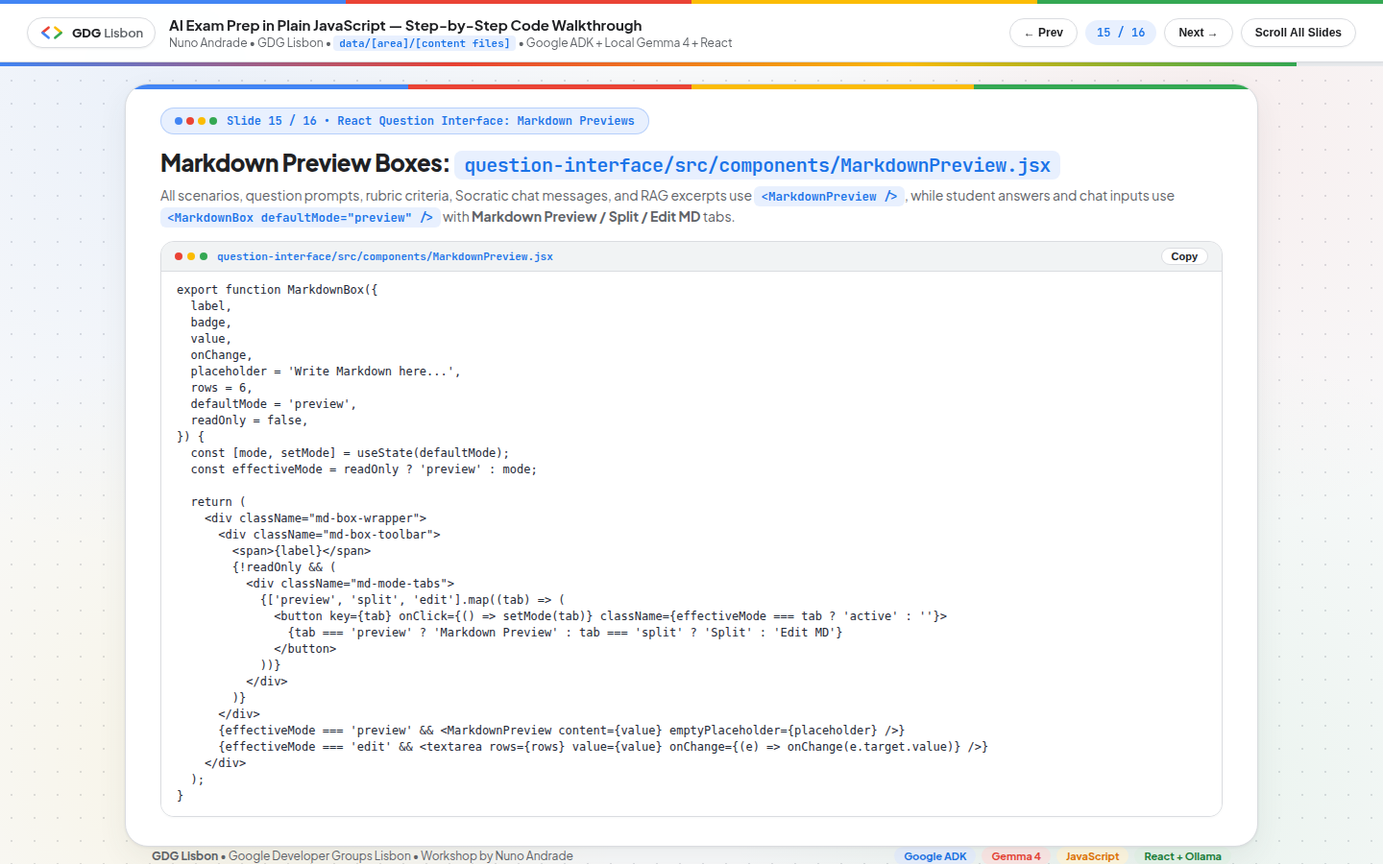
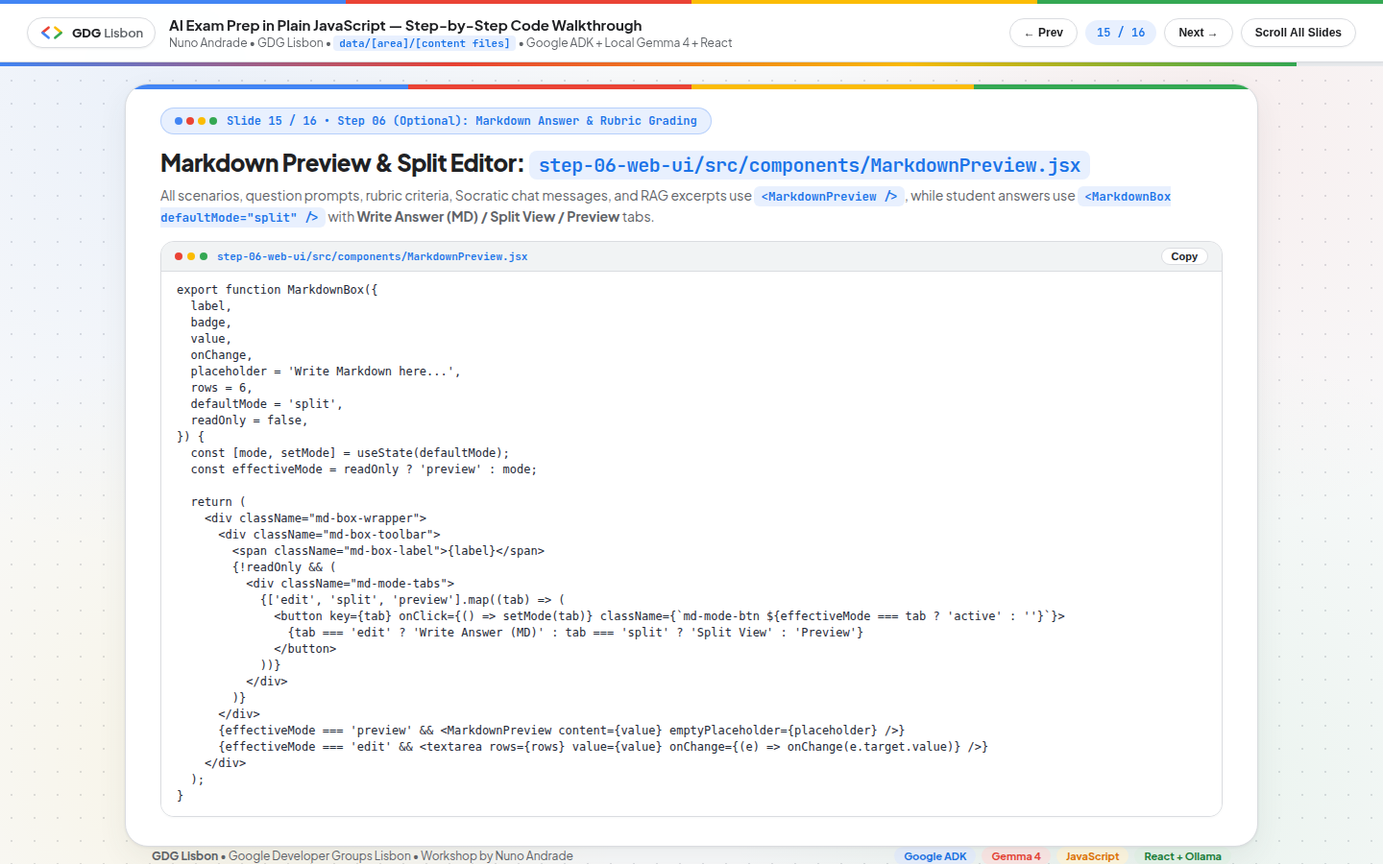
[ADD] added step 06 ui

diff --git a/_posts/2026-10-26-ai-exam-prep.md b/_posts/2026-10-26-ai-exam-prep.md
@@ -2,12 +2,12 @@
 title: "AI Exam Prep with Google ADK & Local Gemma 4: Hands-On JavaScript Code-Along (IADE & GDG Lisbon)"
 date: 2026-10-26 10:00:00 +0100
 categories: [AI Engineering, Workshops]
-tags: [google-adk, gemma4, ollama, javascript, nodejs, react, rag, socratic-agent, structured-outputs, zod, gdg-lisbon, iade]
+tags: [google-adk, gemma4, ollama, javascript, nodejs, react, openapi, swagger, rag, socratic-agent, structured-outputs, zod, gdg-lisbon, iade]
 author: Nuno João Andrade
-description: "A complete, code-first JavaScript (ES Modules) workshop and architectural guide on building a 100% offline AI Exam Prep platform with Google ADK (@google/adk), local Gemma 4 (gemma4:e2b via Ollama), area-parameterized Markdown RAG (data/[area]/[content files]), Socratic mentoring with ADK Web UI, deterministic rubric grading, and a React Markdown-First interface."
+description: "A complete, code-first JavaScript (ES Modules) workshop and architectural guide on building a 100% offline AI Exam Prep platform with Google ADK (@google/adk), local Gemma 4 (gemma4:e2b via Ollama), area-parameterized Markdown RAG (data/[area]/[content files]), Socratic mentoring with ADK Web UI, deterministic rubric grading with OpenAPI 3.0.3 (Swagger) on the API root, and an optional IADE-inspired React Student Web Interface (step-06-web-ui)."
 image:
   path: /assets/ai-exam-prep/slide-01.png
-  alt: "AI Exam Prep in Plain JavaScript — Step-by-Step Code Walkthrough with Google ADK, Local Gemma 4 & React (GDG Lisbon & IADE)"
+  alt: "AI Exam Prep in Plain JavaScript — Step-by-Step Code Walkthrough with Google ADK, Local Gemma 4, OpenAPI 3.0 & IADE-Inspired React Web UI (GDG Lisbon & IADE)"
 ---
 
 # AI Exam Prep with Google ADK & Local Gemma 4: Hands-On JavaScript Code-Along
@@ -21,25 +21,26 @@ image:
 > npm install
 > ```
 
-> **Special Thanks**: A special thank you to **IADE**, **[Lurdes Ferraz](https://www.linkedin.com/in/lurdes-ferraz-0061923a9/)**, **[Nathan Campos](https://www.linkedin.com/in/nathanpc/)**, **[GDG Lisbon](https://gdg.community.dev/gdg-lisbon/)**, and **[Eimy Blanco](https://www.linkedin.com/in/eimy-blanco/)** for the invitation, organization, and support in making this hands-on session possible!
+> **Special Thanks**: A special thank you to **[IADE](https://www.iade.europeia.pt/)**, **[Lurdes Ferraz](https://www.linkedin.com/in/lurdes-ferraz-0061923a9/)**, **[Nathan Campos](https://www.linkedin.com/in/nathanpc/)**, **[GDG Lisbon](https://gdg.community.dev/gdg-lisbon/)**, and **[Eimy Blanco](https://www.linkedin.com/in/eimy-blanco/)** for the invitation, organization, and support in making this hands-on session possible!
 
-Welcome to the complete technical walkthrough of the **AI Exam Prep in Plain JavaScript — Step-by-Step Code-Along Workshop**, presented with **IADE** and **GDG Lisbon**. In this practical engineering session, we build a complete, **100% local and offline AI Exam Preparation & Socratic Study System** from the ground up using **Plain JavaScript (ES Modules, Node.js 22+)**, the **Google Agent Development Kit (`@google/adk`)**, **Local Gemma 4 (`gemma4:e2b`)** running via **Ollama**, and a **React + Vite Web Interface** (`question-interface`).
+Welcome to the complete technical walkthrough of the **AI Exam Prep in Plain JavaScript — Step-by-Step Code-Along Workshop**, presented with **IADE** and **GDG Lisbon**. In this practical engineering session, we build a complete, **100% local and offline AI Exam Preparation & Socratic Study System** from the ground up using **Plain JavaScript (ES Modules, Node.js 22+)**, the **Google Agent Development Kit (`@google/adk`)**, **Local Gemma 4 (`gemma4:e2b`)** running via **Ollama**, an **Express API with interactive OpenAPI 3.0.3 (Swagger) documentation on its root endpoint (`step-05-grading-complete`)**, and an optional **IADE-inspired React + Vite Student Web Interface (`step-06-web-ui`)**.
 
-Instead of relying on opaque cloud wrappers, complex TypeScript compilation pipelines, or external vector database containers, this workshop demonstrates how to structure a clean, modular 5-step agentic pipeline where study materials live in **`data/[area]/[content files]`** and any subject area (`javascript`, `ai-agents`, `cloud`, or your own custom Markdown notes) can be passed dynamically as a CLI argument or URL parameter.
+Instead of relying on opaque cloud wrappers, complex TypeScript compilation pipelines, or external vector database containers, this workshop demonstrates how to structure a clean, modular agentic pipeline where study materials live in **`data/[area]/[content files]`** and any subject area (`javascript`, `ai-agents`, `cloud`, or your own custom Markdown notes) can be passed dynamically as a CLI argument, REST payload, or URL parameter.
 
 ![Slide 01 — Simple JavaScript Folder Layout & data/[area]/[content files]](/assets/ai-exam-prep/slide-01.png)
 
 > [!NOTE]
-> **Primary Architectural Goal**: Empower developers and students to build a privacy-first, zero-API-cost agentic study companion that grounds every exam question, Socratic hint, and rubric evaluation strictly in local Markdown study notes (`data/[area]/*.md`), while supporting both interactive CLI execution, the **Google ADK DevTools Web UI (`adk web`)**, and a full-stack **React Markdown Preview** web interface.
+> **Primary Architectural Goal**: Empower developers and students to build a privacy-first, zero-API-cost agentic study companion that grounds every exam question, Socratic hint, and rubric evaluation strictly in local Markdown study notes (`data/[area]/*.md`), while supporting interactive CLI execution, the **Google ADK DevTools Web UI (`adk web`)**, an **OpenAPI 3.0.3 (Swagger) Explorer** on `http://localhost:3000/`, and an **IADE-inspired React Student Portal** (`step-06-web-ui`) on `http://localhost:5173/`.
 
 ---
 
 ## About the Speaker & the GDG Lisbon + IADE Session
 
-This workshop was created for the **IADE** academic and developer community in partnership with **Google Developer Groups (GDG) Lisbon** by **Nuno João Andrade** ([nja.dev](https://nja.dev)), **Google Developer Expert (GDE)** in Google Cloud & Modern Infrastructure and Senior Backend & Cloud Architect.
+This workshop was created for the **[IADE — Faculdade de Design, Tecnologia e Comunicação](https://www.iade.europeia.pt/)** academic and developer community in partnership with **Google Developer Groups (GDG) Lisbon** by **Nuno João Andrade** ([nja.dev](https://nja.dev)), **Google Developer Expert (GDE)** in Google Cloud & Modern Infrastructure and Senior Backend & Cloud Architect.
 
-- **Plain JavaScript by Design**: Every step (`step-01-setup` through `step-05-grading-complete`) is written in native **Node.js ES Modules (`.js`)** using built-in `fetch()`—zero TypeScript build steps, zero external HTTP client bloat, and instant execution inside each folder (`cd step-0X-... && npm start <area>`).
-- **Dynamic Content Parameterization (`data/[area]/[content files]`)**: Drop any `.md` or `.txt` files into `data/<area>/` and pass `<area>` as a parameter in the terminal (`node index.js javascript`, `node index.js ai-agents`, `node index.js cloud`) or in the React Web UI (`?area=javascript` or via the **+ Pass Custom Content Parameter** drawer).
+- **Plain JavaScript by Design**: Every core step (`step-01-setup` through `step-05-grading-complete`) is written in native **Node.js ES Modules (`.js`)** using built-in `fetch()`—zero TypeScript build steps, zero external HTTP client bloat, and instant execution inside each folder (`cd step-0X-... && npm start <area>`).
+- **Dynamic Content Parameterization (`data/[area]/[content files]`)**: Drop any `.md` or `.txt` files into `data/<area>/` and pass `<area>` as a parameter in the terminal (`node index.js javascript`, `node index.js ai-agents`, `node index.js cloud`) or in the Step 06 React Web UI (`?area=javascript` or via the **+ Pass Custom Content Parameter** drawer).
+- **OpenAPI-First Backend + IADE-Inspired Frontend**: Step 05 serves a full **OpenAPI 3.0.3 (Swagger)** specification and interactive Swagger UI directly at the API root (`GET http://localhost:3000/`), which **Step 06 (Optional)** consumes from a React interface styled after the official **IADE** digital identity (`#000000` black header, `#3cdbc0` turquoise, `#f000ff` magenta, `#0047bb` royal blue, and `Lato` typography).
 
 ---
 
@@ -53,13 +54,15 @@ When students or engineering teams use generic cloud chatbots to study for techn
 | **Exam Structure** | Unstructured prose questions with arbitrary point values | Deterministic **20-point JSON Schema** (`EXAM_JSON_SCHEMA`) validated at runtime with **Zod** |
 | **Learning Pedagogy** | Spoils the full solution immediately when asked for help | **Socratic Study Mentor Agent** (`step-04-socratic-agent`) gives a 2–4 sentence hint + **one guiding question** |
 | **Answer Grading** | Vague "Good job!" feedback without criterion-level breakdown | **Deterministic Rubric Grader** (`step-05-grading-complete`) scoring each criterion against `data/[area]/` notes |
+| **API Discoverability** | Undocumented custom endpoints | **OpenAPI 3.0.3 (Swagger)** served on `GET /`, `/openapi.json`, and `/swagger.json` (`http://localhost:3000/`) |
+| **Student Experience** | Raw terminal or generic chat window | **Step 06 (Optional): IADE-Inspired React Web UI** (`step-06-web-ui`) with area cards, live question generation, Socratic chat, and rubric scorecards |
 | **Cost & Privacy** | Requires paid API keys and sends study notes to external servers | **100% Offline & Free**: runs locally on `gemma4:e2b` via Ollama (`127.0.0.1:11434`) |
 
 ---
 
-## System Architecture Blueprint & Progressive 5-Step Curriculum
+## System Architecture Blueprint & Progressive Curriculum (`step-01` to `step-06`)
 
-The repository is organized into shared foundation helpers (`src/shared/`), five progressive self-contained step folders (`step-01-setup` to `step-05-grading-complete`), and a full-stack React web interface (`question-interface/`):
+The repository is organized into shared foundation helpers (`src/shared/`), five progressive self-contained backend/agent step folders (`step-01-setup` to `step-05-grading-complete`), and an optional **Step 06** IADE-inspired React web interface (`step-06-web-ui/`):
 
 ```text
 examprep/
@@ -80,11 +83,11 @@ examprep/
 ├── step-02-rag/                  # Step 2: ADK FunctionTool over data/[area]/
 ├── step-03-exam-gen/             # Step 3: Structured 20-pt JSON exam + rubric generator
 ├── step-04-socratic-agent/       # Step 4: Multi-turn Socratic Mentor + `adk web` UI
-├── step-05-grading-complete/     # Step 5: Deterministic rubric grader + Express API (:3000)
-└── question-interface/           # React + Vite Web UI (:5173) with Markdown Preview boxes
+├── step-05-grading-complete/     # Step 5: Rubric grader + Express API + OpenAPI/Swagger on `/` (:3000)
+└── step-06-web-ui/               # Step 6 (Optional): IADE-inspired React Student Web UI (:5173 -> :3000)
 ```
 
-### The 5-Step Workshop Roadmap
+### The Workshop Roadmap (Steps 01–05 + Optional Step 06)
 
 | Step Folder | Architectural Focus | Key Primitives Demonstrated | Execution Command |
 | :--- | :--- | :--- | :--- |
@@ -92,7 +95,8 @@ examprep/
 | **`step-02-rag/`** | Area Content RAG Tool | `FunctionTool` (`search_area_content`), Zod tool parameters, heading-aware Markdown chunking | `cd step-02-rag && npm start javascript` |
 | **`step-03-exam-gen/`** | Structured 20-Point Exam & Rubric Generator | Ollama JSON Schema (`format: EXAM_JSON_SCHEMA`), `ExamQuestionSchema` Zod validation | `cd step-03-exam-gen && npm start javascript` |
 | **`step-04-socratic-agent/`** | Multi-Turn Socratic Mentor & ADK DevTools Web UI | Multi-turn `InMemoryRunner`, Socratic system rules, `export const rootAgent`, `adk web` (`:8000`) | `cd step-04-socratic-agent && npm start javascript` (or `npm run web`) |
-| **`step-05-grading-complete/`** | Deterministic Rubric Grader & Full-Stack Express API | Criterion-by-criterion JSON grading (`EVALUATION_JSON_SCHEMA`), REST API (`server.js` on `:3000`) | `cd step-05-grading-complete && npm start javascript` |
+| **`step-05-grading-complete/`** | Deterministic Rubric Grader, Express API & OpenAPI (Swagger) Root | Criterion-by-criterion JSON grading (`EVALUATION_JSON_SCHEMA`), REST API + OpenAPI 3.0.3 UI on `GET /` (`:3000`) | `cd step-05-grading-complete && npm start javascript` (or `npm run server`) |
+| **`step-06-web-ui/` *(Optional)*** | IADE-Inspired React Student Web Interface | Area selector hero (`javascript`, `ai-agents`, `cloud`), live question generation via Step 05 API, Socratic Coach, Markdown Preview boxes | `cd step-06-web-ui && npm start` (or `npm run step06`) |
 
 ---
 
@@ -123,7 +127,7 @@ curl http://127.0.0.1:11434/api/tags
 
 ![Slide 03 — Pull Local gemma4:e2b & Install Workspace Dependencies](/assets/ai-exam-prep/slide-03.png)
 
-Pull the local Gemma 4 model (`gemma4:e2b`) once for offline inference, then run `npm install` at the repository root to link all 5 step workspaces and `question-interface`:
+Pull the local Gemma 4 model (`gemma4:e2b`) once for offline inference, then run `npm install` at the repository root to link all step workspaces (`step-01-setup` through `step-06-web-ui`):
 
 ```bash
 # 1. Download local Gemma 4 model
@@ -141,7 +145,7 @@ npm install
 > [!TIP]
 > **Classroom Offline USB Model Installation (`OLLAMAMODEL`)**: In a live classroom where 30+ participants shouldn't download 4.6 GB over venue Wi-Fi simultaneously, the repository includes **[OFFLINE-MODEL-SETUP.md](https://github.com/nuno-joao-andrade-dev/ai-exam-prep/blob/main/OFFLINE-MODEL-SETUP.md)** with ready-to-run commands for copying the `models/` folder (`blobs/`, `manifests/`, `manifests-v2/`, `metadata/`) directly from the `OLLAMAMODEL` USB drive on **Windows (PowerShell)**, **macOS**, and **Linux** with zero internet usage.
 
-The root `package.json` provides clean scripts for running individual steps, launching the **Google ADK DevTools Web UI** (`step04:web`), or starting the **Express API + React Web UI + Slide Deck** simultaneously with `concurrently`:
+The root `package.json` provides clean scripts for running individual steps, launching the **Google ADK DevTools Web UI** (`step04:web`), starting the **Step 05 OpenAPI Server** (`server`), or launching **Step 06 (Optional) IADE React Web UI** (`step06`):
 
 ```json
 {
@@ -153,9 +157,10 @@ The root `package.json` provides clean scripts for running individual steps, lau
     "step04": "node step-04-socratic-agent/index.js",
     "step04:web": "adk web step-04-socratic-agent/index.js --compile false --bundle false",
     "step05": "node step-05-grading-complete/index.js",
+    "step06": "node step-06-web-ui/index.js",
     "server": "node step-05-grading-complete/server.js",
-    "ui": "npm --prefix question-interface run dev",
-    "ui:build": "npm --prefix question-interface run build",
+    "ui": "npm --prefix step-06-web-ui run dev",
+    "ui:build": "npm --prefix step-06-web-ui run build",
     "slides": "node src/shared/serve-slides.js",
     "test:all": "node src/shared/test-all.js"
   }
@@ -381,7 +386,7 @@ npm run step04:web
 
 ---
 
-### Step 05: Deterministic Rubric Grader & Express API Server (`step-05-grading-complete/`)
+### Step 05: Deterministic Rubric Grader, Express API & OpenAPI 3.0.3 (Swagger) on Root (`step-05-grading-complete/`)
 
 ![Slide 12 — Execute Step 05: cd step-05-grading-complete && node index.js <area>](/assets/ai-exam-prep/slide-12.png)
 
@@ -396,56 +401,107 @@ npm start javascript
 npm run step05 -- javascript
 ```
 
-![Slide 13 — Backend API Server: step-05-grading-complete/server.js](/assets/ai-exam-prep/slide-13.png)
+#### OpenAPI 3.0.3 (Swagger) Documentation on the Root Endpoint (`GET /`)
 
-`step-05-grading-complete/server.js` exposes the complete pipeline over HTTP (`http://localhost:3000`) for the React Web Interface. Every endpoint accepts both `area` (folder name inside `data/`) and optional `customContent` (raw Markdown passed from the UI):
-- `GET /api/status?area=<area>`: Lists all available `data/[area]` folders, loaded files, and Ollama connectivity status.
-- `POST /api/rag/search`: Runs `searchAreaContent({ area, query, topK, customContent })`.
-- `POST /api/exam/generate`: Generates a 20-point exam question and rubric for `area` + `topic`.
-- `POST /api/socratic/chat`: Multi-turn Socratic mentor chat grounded in `data/[area]/`.
-- `POST /api/grade/evaluate`: Evaluates the student's Markdown answer against the 20-point rubric.
+![Slide 13 — Backend API Server & OpenAPI (Swagger) on Root: step-05-grading-complete/server.js](/assets/ai-exam-prep/slide-13.png)
+
+In addition to the CLI grader, `step-05-grading-complete/server.js` exposes the entire exam preparation pipeline over HTTP (`http://localhost:3000`) and dynamically generates an **OpenAPI 3.0.3 (Swagger)** description directly on the root endpoint (`GET /`), dynamically enumerating every folder discovered inside `data/` (`listAreas()`):
+
+```javascript
+// step-05-grading-complete/server.js
+app.get(['/openapi.json', '/swagger.json'], (req, res) => {
+  const serverUrl = `${req.protocol}://${req.get('host')}`;
+  res.json(buildOpenApiSpec(serverUrl));
+});
+
+app.get('/', (req, res) => {
+  const serverUrl = `${req.protocol}://${req.get('host')}`;
+  const spec = buildOpenApiSpec(serverUrl);
+  const accept = req.headers.accept || '';
+  if (req.query.format === 'json' || accept.includes('application/json')) {
+    return res.json(spec);
+  }
+  return res.type('html').send(renderSwaggerUiHtml(spec));
+});
+```
+
+![Step 05 OpenAPI 3.0.3 (Swagger) Interactive Explorer on http://localhost:3000/](/assets/ai-exam-prep/step-05-openapi.png)
+
+When you start the server (`npm run server` or `cd step-05-grading-complete && npm run server`):
+- **`GET http://localhost:3000/`**: Renders the interactive **Swagger UI** in the browser (or returns the raw OpenAPI 3.0.3 JSON when requested with `Accept: application/json` or `?format=json`).
+- **`GET http://localhost:3000/openapi.json`** (and **`/swagger.json`**): Returns the raw OpenAPI 3.0.3 JSON specification with full request/response schemas for `ExamQuestion`, `RubricCriterion`, `EvaluationResult`, and `RagSearchResponse`.
+- **`GET /api/status?area=<area>`**: Lists all available `data/[area]` folders, loaded Markdown files, and local Ollama connectivity status.
+- **`POST /api/rag/search`**: Runs `searchAreaContent({ area, query, topK, customContent })`.
+- **`POST /api/exam/generate`**: Generates a 20-point exam question and rubric for `area` + `topic`.
+- **`POST /api/socratic/chat`**: Multi-turn Socratic mentor chat grounded in `data/[area]/`.
+- **`POST /api/grade/evaluate`**: Evaluates the student's Markdown answer against the 20-point rubric.
 
 ---
 
-## Full-Stack React Web Interface (`question-interface/`)
+## Step 06 (Optional): IADE-Inspired React Student Web Interface (`step-06-web-ui/`)
 
-### 1. Passing `area` and `customContent` as Parameters
+To give students an intuitive, self-service web experience on top of the Step 05 API, **Step 06 (Optional)** (`step-06-web-ui/`) provides a modern **React + Vite Student Web Interface** inspired by the official **[IADE — Faculdade de Design, Tecnologia e Comunicação](https://www.iade.europeia.pt/)** website.
 
-![Slide 14 — Passing Content as a Parameter in question-interface/src/App.jsx](/assets/ai-exam-prep/slide-14.png)
+![Step 06 (Optional) — IADE-Inspired React Student Web Interface on http://localhost:5173/](/assets/ai-exam-prep/step-06-iade-ui.png)
 
-In `question-interface/src/App.jsx`, you can switch study areas or pass custom study notes in three ways:
-1. **URL Query Parameter (`?area=javascript`, `?area=ai-agents`, `?area=cloud`)**: Automatically synced with `window.history.replaceState`.
-2. **Header Area Selector Dropdown**: Switches between any folder discovered inside `data/`.
-3. **`+ Pass Custom Content Parameter` Drawer (or `?content=...`)**: Paste any custom Markdown lecture notes directly in the browser to override `data/[area]/` on the fly for RAG search, exam generation, Socratic mentoring, and rubric grading.
+### 1. Visual Design System Inspired by IADE (`step-06-web-ui/src/index.css`)
 
-### 2. Markdown Preview Boxes (`<MarkdownPreview />` & `<MarkdownBox />`)
+The frontend adopts IADE's bold editorial design language and exact color tokens:
+- **Brand Palette**: `--brand1: #000000` (Bold Black top navigation bar & primary buttons), `--brand2: #3cdbc0` (IADE Turquoise accents, active pill borders, and highlights), `--brand3: #0047bb` (IADE Royal Blue badges), `--brand4: #f000ff` (IADE Magenta micro-accents), and `--ui02: #eeeff2` (light editorial surface).
+- **Typography & Header**: Clean `Lato` typography paired with the official inline **IADE SVG emblem** (`IadeLogoSvg` in `Header.jsx`), a quick-switch area pill bar (`javascript`, `ai-agents`, `cloud`), and a direct link to the **Step 05 OpenAPI / Swagger UI (`http://localhost:3000/`)**.
 
-![Slide 15 — Markdown Preview Boxes: question-interface/src/components/MarkdownPreview.jsx](/assets/ai-exam-prep/slide-15.png)
+### 2. Student Area Selection & Live Question Generation via Step 05 API
 
-To make technical scenarios, code snippets, rubrics, and student answers effortless to read, most boxes in the React UI render formatted Markdown previews by default:
-- Read-only displays (exam scenario, question prompt, rubric criteria, sample solution, Socratic mentor replies, and RAG source excerpts) use `<MarkdownPreview />`.
-- Interactive inputs (student answer box, Socratic chat input, and custom content parameter editor) use `<MarkdownBox defaultMode="preview" />` with instant **`Markdown Preview | Split | Edit MD`** mode tabs.
+![Slide 14 — Step 06 (Optional): IADE-Inspired React Student Web UI (step-06-web-ui/)](/assets/ai-exam-prep/slide-14.png)
+
+In `step-06-web-ui/src/App.jsx` and `AreaSelectorHero.jsx`, students can:
+1. **Select Any Study Area (`data/[area]/`)**: Click on any area card (`javascript`, `ai-agents`, `cloud`, or any custom folder added to `data/`) in the dark IADE Hero banner, use the header pills, or pass `?area=javascript` in the URL.
+2. **Generate Exam Questions via the Step 05 API (`POST /api/exam/generate`)**: Enter an optional topic focus (e.g., `"Event Loop and Closures"` or `"Horizontal Scaling and Cache Stampede"`) and click **`Generate Question via Step 05 API`** (or click **`Generate Question via API →`** directly on any area card) to generate a fresh 20-point exam question from `data/[area]/`.
+3. **Pass Custom Markdown Notes (`+ Custom Notes` Drawer)**: Paste custom lecture notes directly in the browser to override `data/[area]/` on the fly across all four Step 05 API endpoints.
+
+### 3. Answering Questions, Socratic Coaching & Deterministic Grading (`<MarkdownBox />`)
+
+![Slide 15 — Step 06 (Optional): Area Selector Hero & MarkdownBox Components](/assets/ai-exam-prep/slide-15.png)
+
+Once an area and question are active, students progress through four integrated tabs in the workspace:
+- **`1. Answer Exam Question` (`ExamQuestionView.jsx`)**: Displays the 20-point scenario, question prompt, and collapsible grading rubric using `<MarkdownPreview />`, alongside an interactive `<MarkdownBox />` (`Markdown Preview | Split | Edit MD`) where the student writes their solution and clicks **`Submit & Grade via Step 05 API`** (`POST /api/grade/evaluate`).
+- **`2. Socratic Coach (Step 04)` (`SocraticChatView.jsx`)**: Connects to `POST /api/socratic/chat` so students can ask for a hint while working on the question—receiving a 2–4 sentence conceptual nudge and one guiding question grounded in `data/[area]/` without spoiling the answer.
+- **`3. Rubric Evaluation (Step 05)` (`RubricScorecardView.jsx`)**: Renders the per-criterion point breakdown (`awardedPoints / maxPoints`), justifications, and actionable improvement suggestions returned by the Step 05 rubric grader.
+- **`4. Study Notes (data/area)` (`CurriculumSearchView.jsx`)**: Lets students search the Markdown chunks in `data/[area]/` via `POST /api/rag/search`.
+
+```bash
+# Launch Step 06 (automatically starts the Step 05 API on :3000 if not already running, plus Vite on :5173):
+cd step-06-web-ui
+npm start
+
+# Or from the repository root:
+npm run step06
+```
 
 ---
 
 ## Running Everything End-to-End
 
-![Slide 16 — Running Every Step & Launching the React Web Interface](/assets/ai-exam-prep/slide-16.png)
+![Slide 16 — Running Steps 01–05 & Step 06 (Optional React Web UI)](/assets/ai-exam-prep/slide-16.png)
 
-Use `npm run dev` at the repository root to launch the **Express API Server (`:3000`)**, **React Vite Web UI (`:5173`)**, and **GDG Lisbon Slide Deck (`:3030`)** concurrently:
+Use `npm run dev` at the repository root to launch the **Step 05 Express + OpenAPI Server (`:3000`)**, **Step 06 IADE React Web UI (`:5173`)**, and **GDG Lisbon Slide Deck (`:3030`)** concurrently—or use `npm run step06` to launch the Step 05 API + Step 06 React UI together:
 
 ```bash
-# Run API Server (:3000) + React Web UI (:5173) + Slide Deck (:3030) together:
+# Option A: Launch Step 06 IADE React Web UI (:5173) + Step 05 API Server (:3000):
+npm run step06
+
+# Option B: Run API Server (:3000) + Step 06 React Web UI (:5173) + Slide Deck (:3030) together:
 npm run dev
 
-# Or run all 5 steps in automated demo mode to verify your setup:
+# Option C: Run all 5 core steps in automated demo mode to verify your setup:
 npm run test:all -- javascript
 ```
 
 Open your browser at:
-- **React Exam Prep Web UI**: `http://localhost:5173/?area=javascript` (or `?area=ai-agents`, `?area=cloud`)
+- **Step 06 IADE-Inspired React Student Web UI**: `http://localhost:5173/?area=javascript` (or `?area=ai-agents`, `?area=cloud`)
+- **Step 05 OpenAPI 3.0.3 (Swagger) Root UI**: `http://localhost:3000/` (JSON spec at `http://localhost:3000/openapi.json`)
 - **Interactive Slide Deck**: `http://localhost:3030`
-- **Google ADK DevTools Web UI (Step 4)**: `npm run step04:web` &rarr; `http://localhost:8000`
+- **Google ADK DevTools Web UI (Step 04)**: `npm run step04:web` &rarr; `http://localhost:8000`
 
 ---
 
@@ -457,6 +513,7 @@ Open your browser at:
 | `model "gemma4:e2b" not found` | Model has not been pulled or copied into Ollama's `models/` directory | Run `ollama pull gemma4:e2b` or copy `models/` from the `OLLAMAMODEL` USB drive (`OFFLINE-MODEL-SETUP.md`). |
 | `Unknown area "<name>"` | Folder `data/<name>` does not exist | Check available folders in `data/` (`javascript`, `ai-agents`, `cloud`) or create `data/<name>/notes.md`. |
 | `No rootAgent found` when running `adk web` | Running `adk web` without disabling TypeScript bundling on an ESM `.js` file | Use `npm run web` (inside `step-04-socratic-agent`) or `npm run step04:web` (which passes `--compile false --bundle false`). |
+| Step 06 UI shows `Step 05 API Offline` badge | `step-05-grading-complete/server.js` is not running on port `3000` | Run `npm run step06` (which auto-starts Step 05 API) or `npm run server` in another terminal. |
 
 ---
 
@@ -465,12 +522,13 @@ Open your browser at:
 1. **Plain JavaScript + `@google/adk` Keeps Agentic Code Accessible**: Extending `BaseLlm` with 60 lines of native `fetch()` code (`src/shared/ollama-llm.js`) connects Google ADK's `LlmAgent`, `FunctionTool`, `InMemoryRunner`, and `adk web` directly to local Ollama models with zero cloud dependencies.
 2. **Convention Over Configuration (`data/[area]/[content files]`)**: Organizing study notes into `data/[area]/*.md` and splitting on `## ` headings turns any folder of Markdown notes into a searchable knowledge base (`search_area_content`) without vector database infrastructure.
 3. **Structured Schemas + Socratic Guardrails Transform Pedagogy**: Combining Ollama's JSON Schema enforcement (`format`) with Zod validation guarantees deterministic 20-point exams and rubric scores, while Socratic system instructions ensure the agent mentors students instead of spoiling answers.
+4. **Self-Documenting OpenAPI Root + Modular Frontend (`step-05` & `step-06`)**: Serving an OpenAPI 3.0.3 (Swagger) UI directly on `GET /` (`http://localhost:3000/`) makes the backend immediately testable on its own and trivial to consume from the optional IADE-inspired React student portal (`step-06-web-ui/`).
 
 ---
 
 ### Special Thanks
 
-- **IADE — Faculdade de Design, Tecnologia e Comunicação**
+- **[IADE — Faculdade de Design, Tecnologia e Comunicação](https://www.iade.europeia.pt/)**
 - **[Lurdes Ferraz](https://www.linkedin.com/in/lurdes-ferraz-0061923a9/)**
 - **[Nathan Campos](https://www.linkedin.com/in/nathanpc/)**
 - **[GDG Lisbon (Google Developer Group Lisbon)](https://gdg.community.dev/gdg-lisbon/)**
